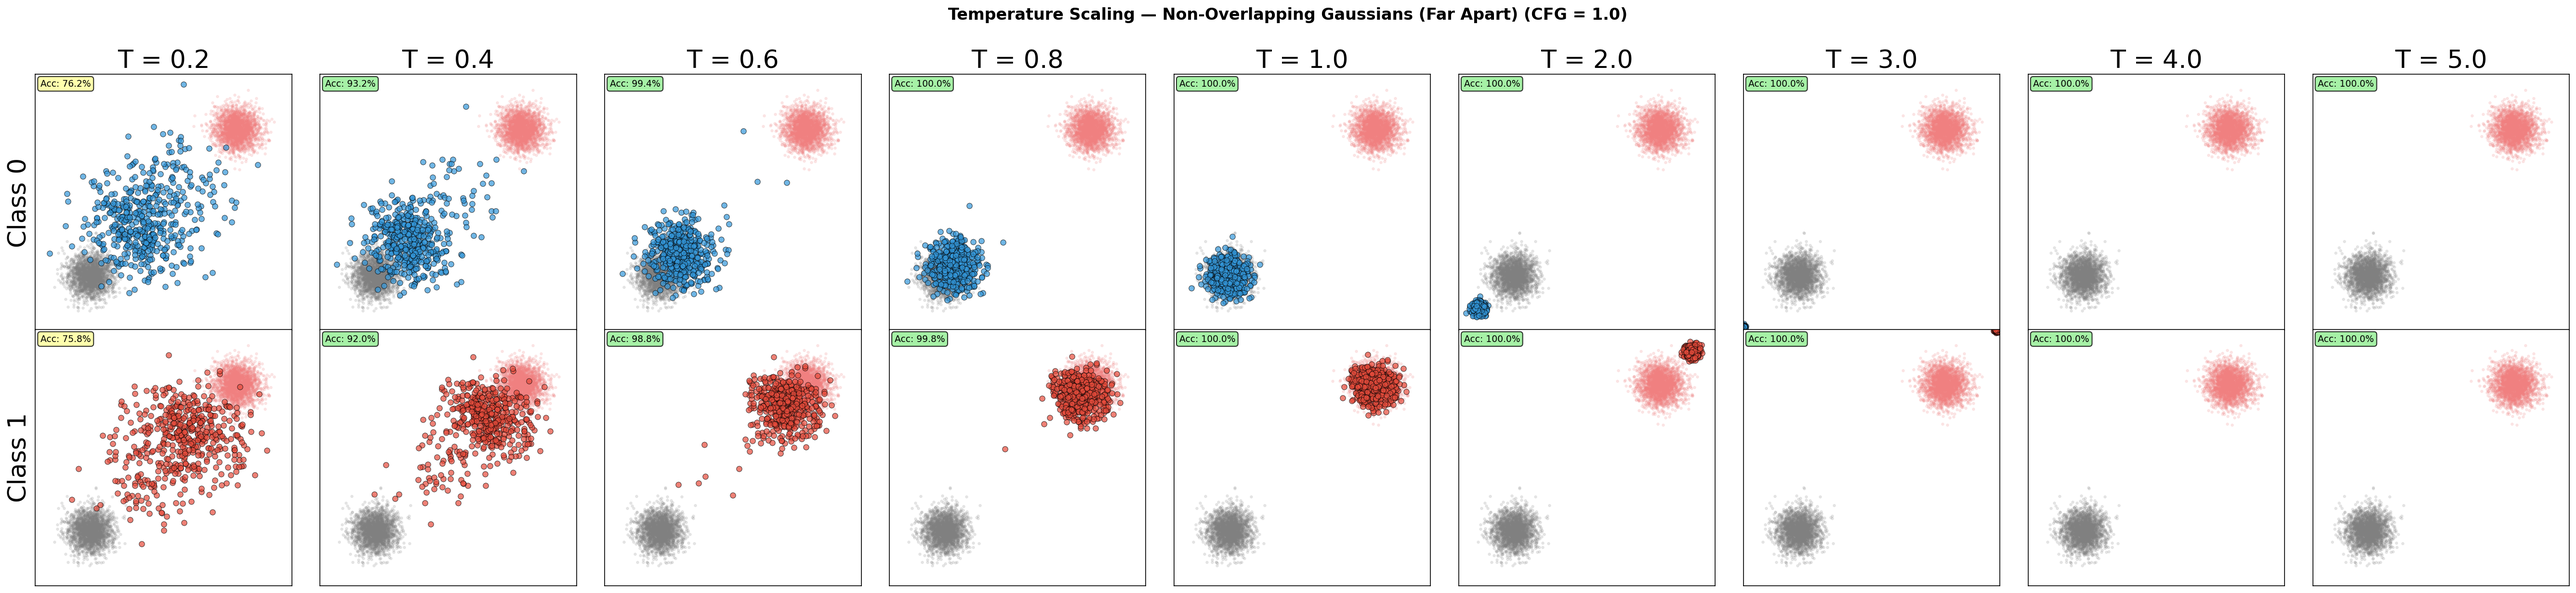
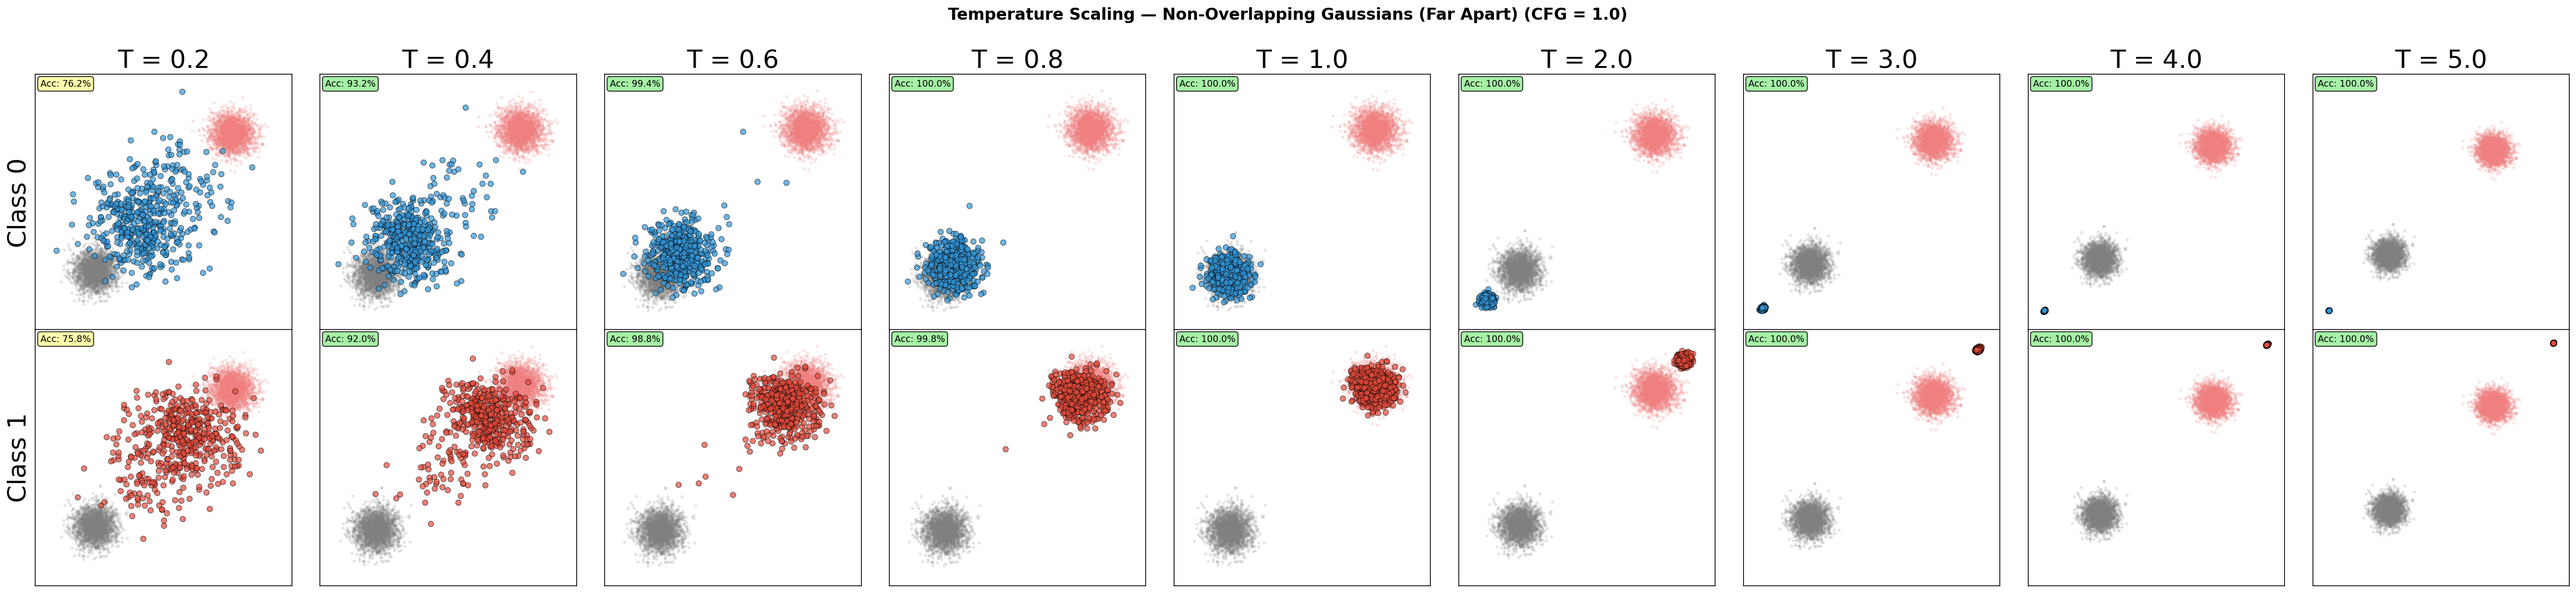
Auto-scale axis limits for high temperature plots
Per-column axis limits now expand to fit all samples, fixing
non-overlapping case where T>=2 points were outside the plot.

diff --git a/src/flow_gaussians/visualize_temperature.py b/src/flow_gaussians/visualize_temperature.py
@@ -76,15 +76,32 @@ def plot_temperature_comparison(
     mask_0 = labels == 0
     mask_1 = labels == 1
 
+    # Pre-generate all samples to compute per-column axis limits
+    all_samples = {}
     for row_idx, target_label in enumerate([0, 1]):
         for col_idx, temp in enumerate(temperature_values):
-            ax = axes[row_idx, col_idx]
-
             samples = sample_euler_temperature(
                 model, n_samples, target_label,
                 num_steps=100, cfg_scale=cfg_scale,
                 temperature=temp, seed=seed + row_idx,
             )
+            all_samples[(row_idx, col_idx)] = samples
+
+    # Compute per-column limits (shared across both classes)
+    col_limits = {}
+    for col_idx, temp in enumerate(temperature_values):
+        all_col_pts = np.vstack([all_samples[(r, col_idx)] for r in range(2)])
+        margin = 0.5
+        max_abs = max(
+            np.abs(all_col_pts).max(),
+            max(max(abs(c[0]), abs(c[1])) for c in (class0_centers or []) + (class1_centers or [])) + 1.0,
+        )
+        col_limits[col_idx] = (-max_abs - margin, max_abs + margin)
+
+    for row_idx, target_label in enumerate([0, 1]):
+        for col_idx, temp in enumerate(temperature_values):
+            ax = axes[row_idx, col_idx]
+            samples = all_samples[(row_idx, col_idx)]
 
             # Training data (faded)
             ax.scatter(data[mask_0, 0], data[mask_0, 1], c="gray", alpha=0.15, s=5)
@@ -108,8 +125,9 @@ def plot_temperature_comparison(
                 bbox=dict(boxstyle="round", facecolor=box_color, alpha=0.8),
             )
 
-            ax.set_xlim(xlim)
-            ax.set_ylim(ylim)
+            cl = col_limits[col_idx]
+            ax.set_xlim(cl)
+            ax.set_ylim(cl)
             ax.set_aspect("equal")
             ax.grid(True, alpha=0.3)
             ax.set_xticks([])
